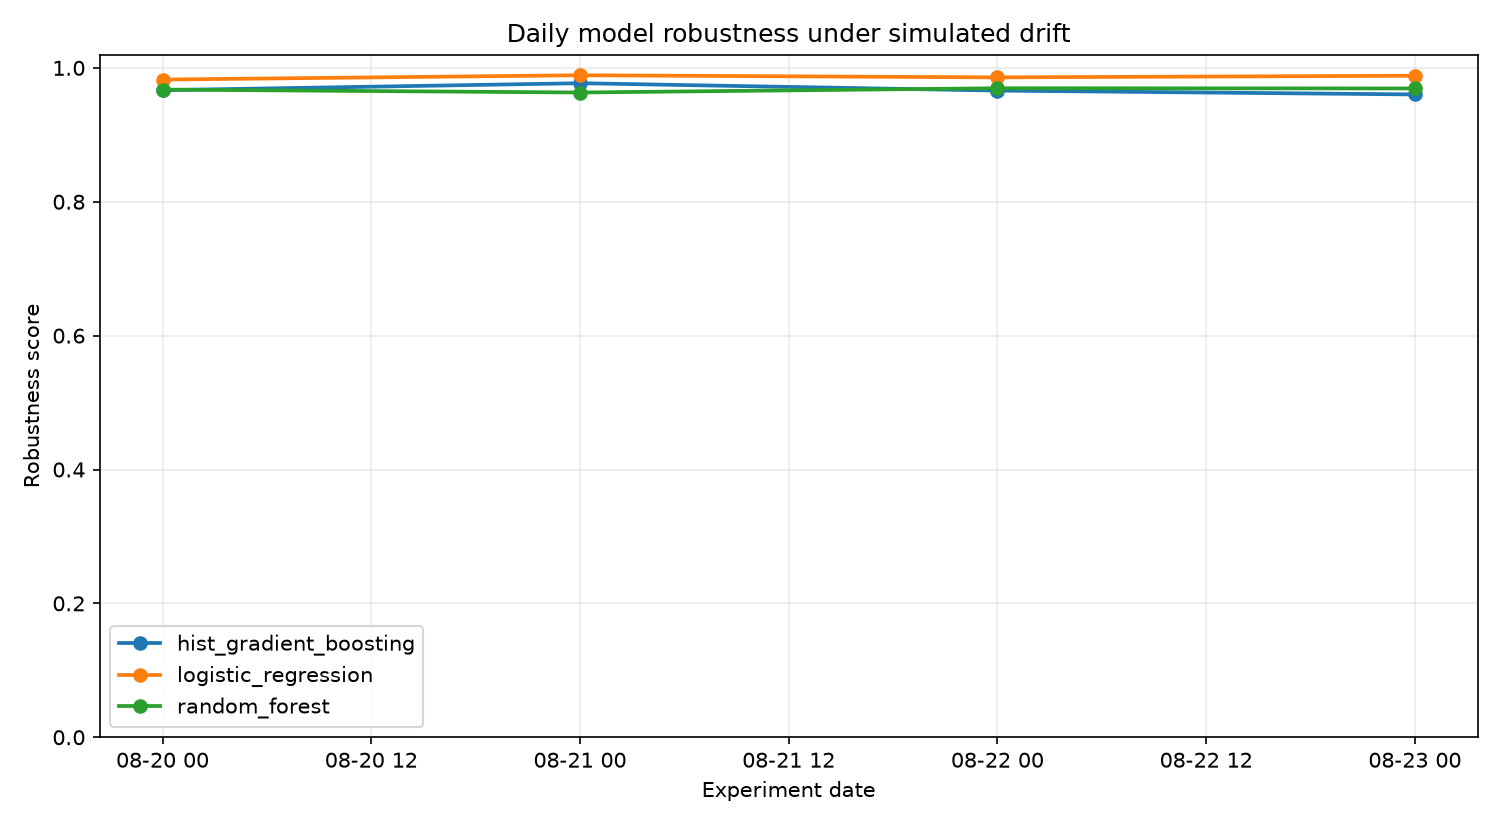
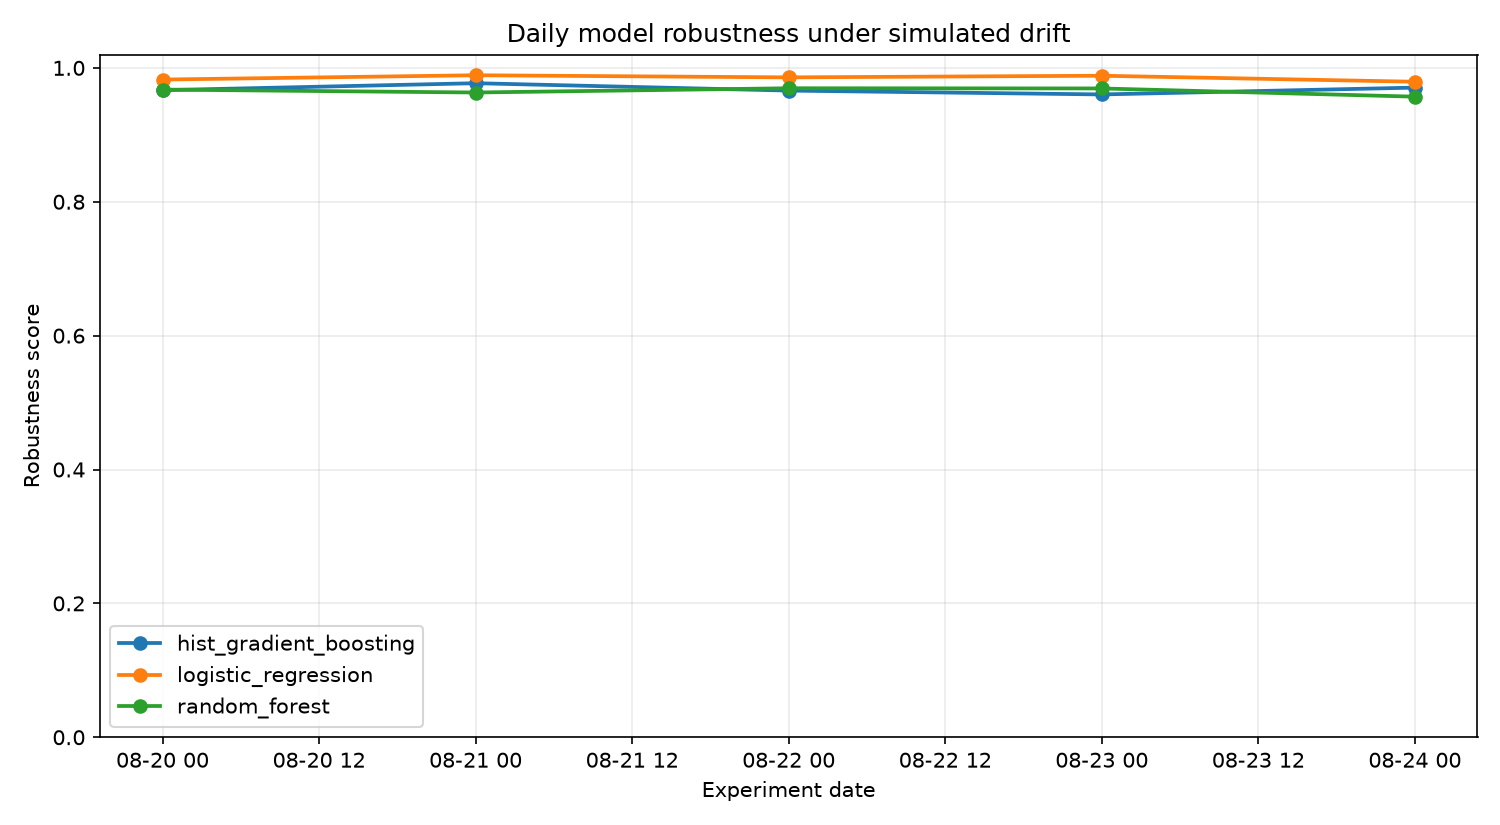
chore(observatory): daily drift benchmark 2026-08-24

diff --git a/reports/latest.md b/reports/latest.md
@@ -1,37 +1,37 @@
 # Latest DriftWatch Report
 
-**Experiment date:** 2026-08-23
+**Experiment date:** 2026-08-24
 
 ## Drift scenario
 
-- Drift strength: `0.494`
-- Scale factor: `0.951`
-- Noise ratio: `0.084`
-- Mask ratio: `0.022`
-- Affected features: mean radius, mean concave points, concavity error, worst area, worst smoothness, worst compactness, worst fractal dimension
+- Drift strength: `0.525`
+- Scale factor: `0.947`
+- Noise ratio: `0.088`
+- Mask ratio: `0.023`
+- Affected features: mean area, mean smoothness, mean concave points, concave points error, symmetry error, worst radius, worst perimeter, worst area
 
 ## Model ranking
 
 | Rank | Model | Robustness | ROC-AUC | F1 | Balanced Acc. | Log Loss | Brier |
 |---:|---|---:|---:|---:|---:|---:|---:|
-| 1 | `logistic_regression` | 0.9883 | 0.9975 | 0.9862 | 0.9766 | 0.0705 | 0.0189 |
-| 2 | `random_forest` | 0.9693 | 0.9921 | 0.9640 | 0.9375 | 0.1498 | 0.0425 |
-| 3 | `hist_gradient_boosting` | 0.9603 | 0.9857 | 0.9554 | 0.9219 | 0.2191 | 0.0493 |
+| 1 | `logistic_regression` | 0.9793 | 0.9972 | 0.9727 | 0.9531 | 0.0724 | 0.0204 |
+| 2 | `hist_gradient_boosting` | 0.9705 | 0.9958 | 0.9640 | 0.9375 | 0.2048 | 0.0446 |
+| 3 | `random_forest` | 0.9570 | 0.9917 | 0.9469 | 0.9062 | 0.1649 | 0.0499 |
 
 ## Highest feature drift (PSI)
 
 | Feature | PSI |
 |---|---:|
-| worst area | 0.5222 |
-| concavity error | 0.4253 |
-| mean concave points | 0.4064 |
-| worst compactness | 0.2939 |
-| worst fractal dimension | 0.2396 |
-| mean radius | 0.2194 |
-| worst smoothness | 0.1828 |
-| worst concavity | 0.1631 |
+| worst area | 0.5912 |
+| mean area | 0.4108 |
+| mean concave points | 0.3926 |
+| symmetry error | 0.3903 |
+| worst radius | 0.3383 |
+| worst perimeter | 0.3062 |
+| area error | 0.1674 |
+| worst concavity | 0.1671 |
 
-**Mean PSI:** `0.1395`  
-**Max PSI:** `0.5222`
+**Mean PSI:** `0.1533`  
+**Max PSI:** `0.5912`
 
 _Generated automatically by the DriftWatch daily observatory pipeline._
